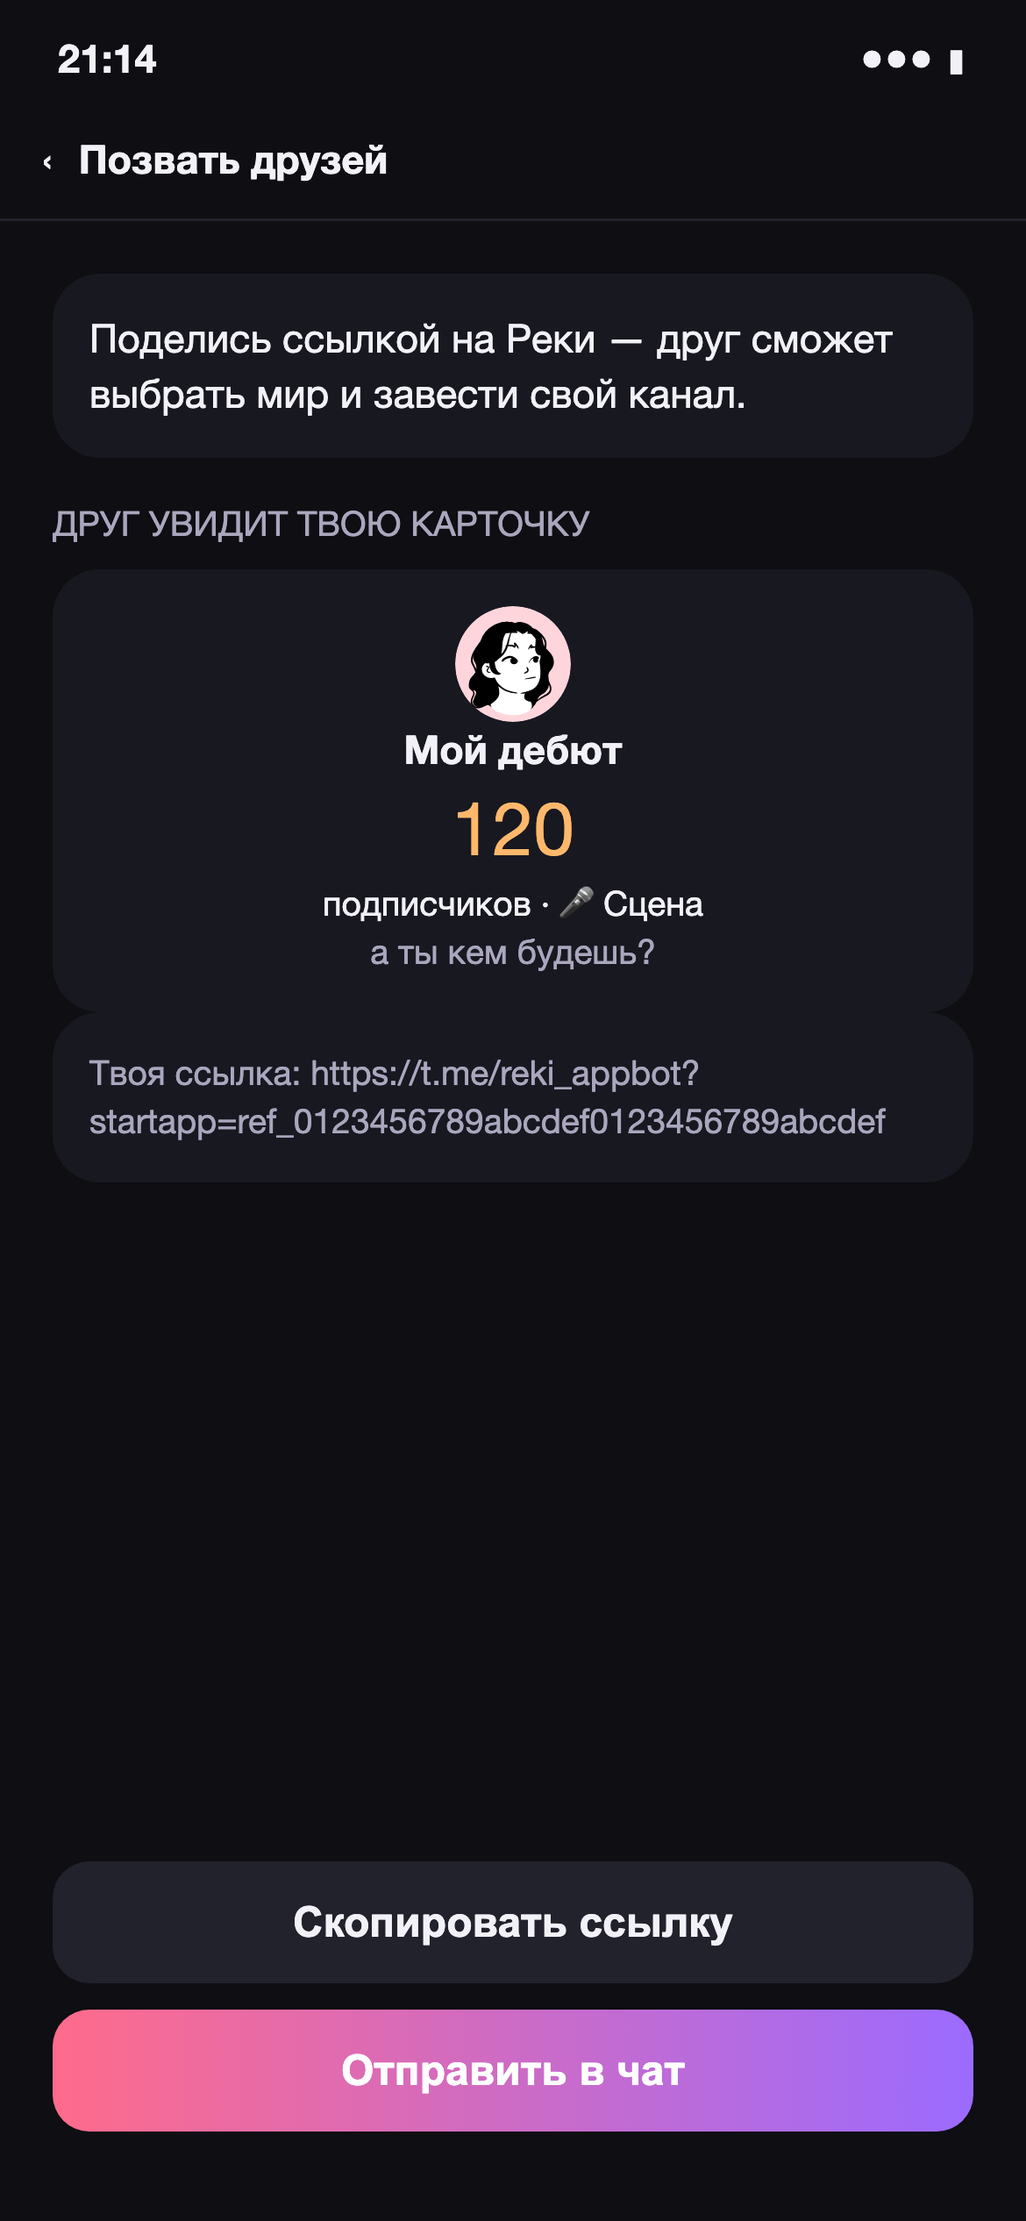
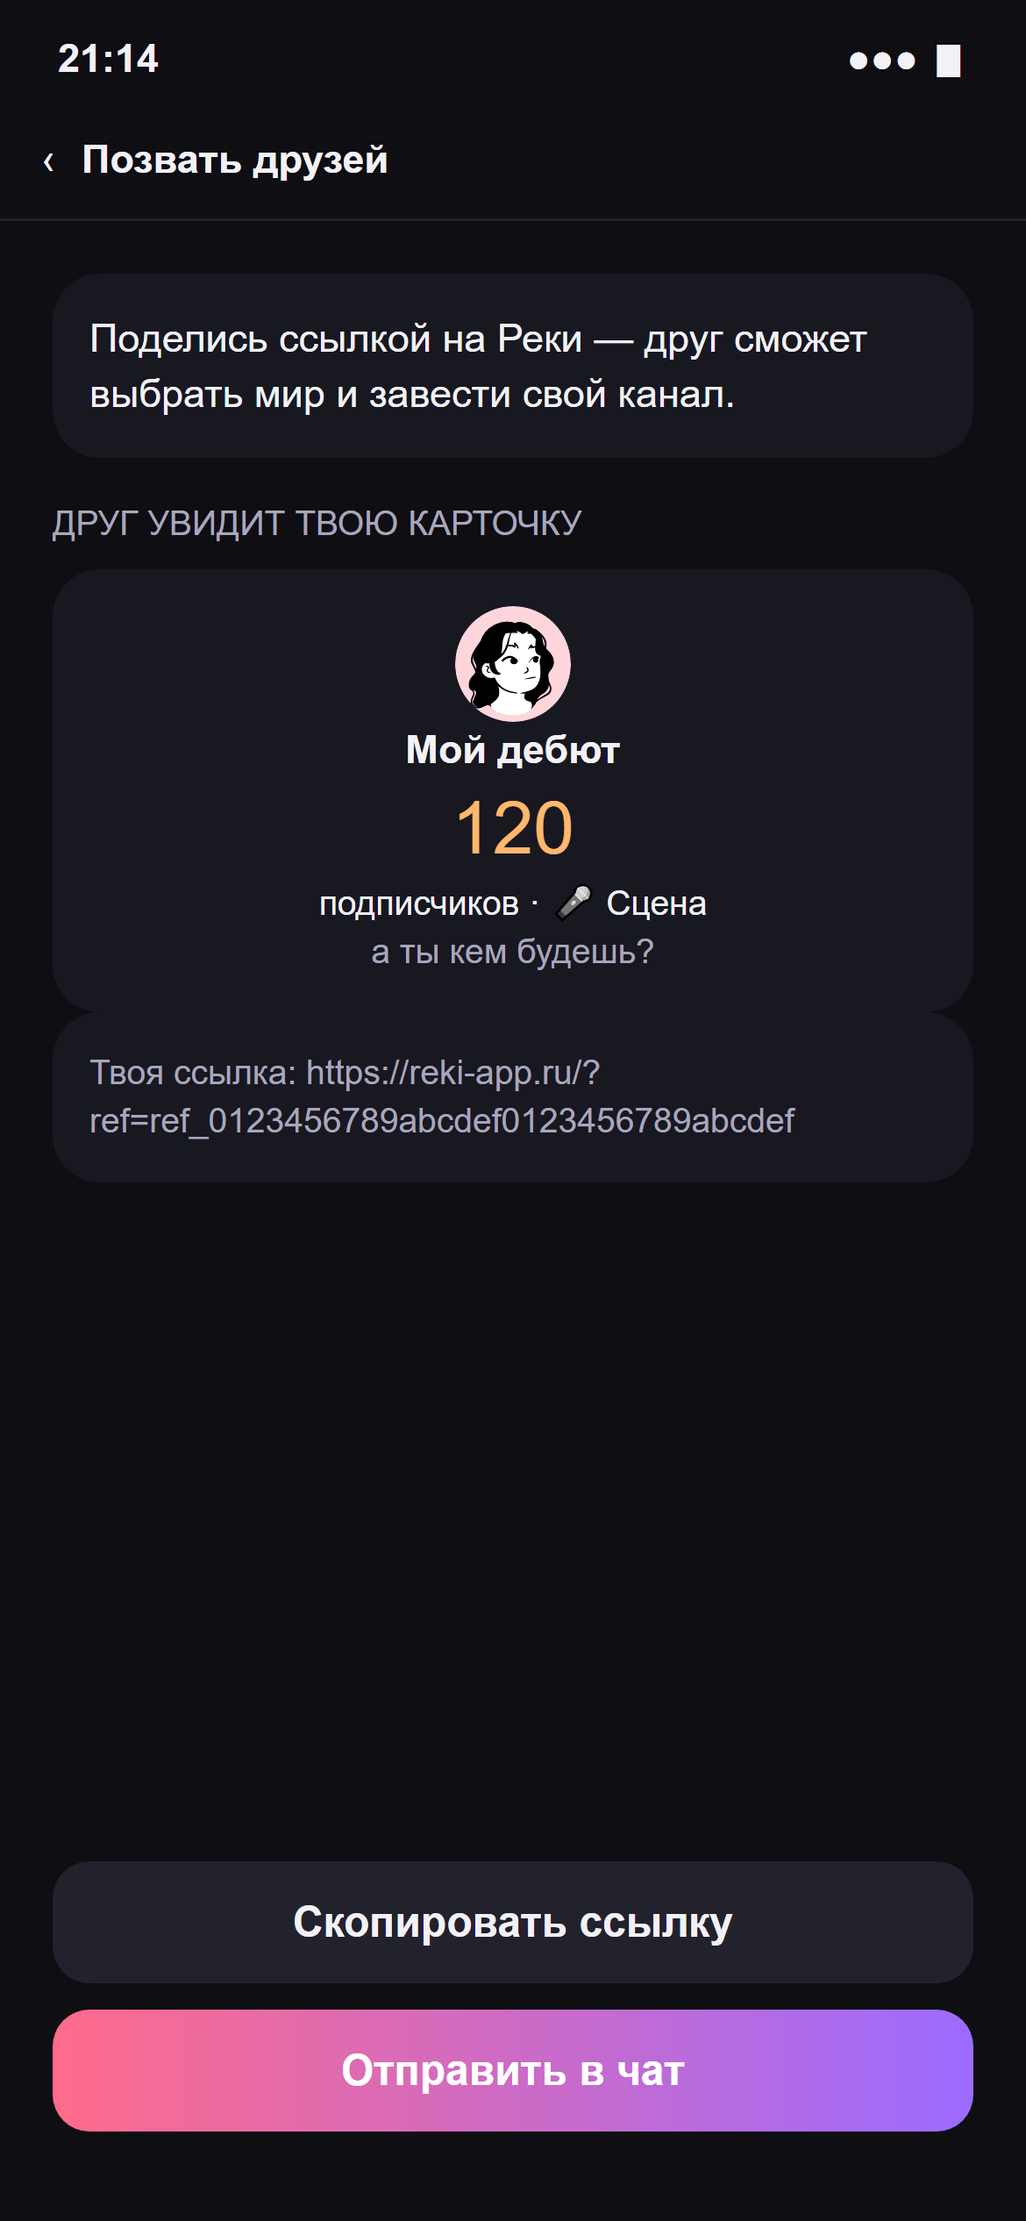
feat(invites): share website referral links across all entry points

diff --git a/frontend/src/app/useReferralLink.ts b/frontend/src/app/useReferralLink.ts
@@ -2,11 +2,10 @@ import { useEffect, useState } from 'react'
 import { api } from '../api/client'
 import { usePlayer } from './store'
 import { cachedApi, saveApiCache } from './useApi'
-import { telegramStartUrl } from './telegramLinks'
 
 export function useReferralLink() {
   const player = usePlayer()
-  const key = `referral:${player.id}`
+  const key = `referral-site:${player.id}`
   const [resolved, setResolved] = useState<{ key: string; link?: string }>(() => ({ key, link: cachedApi<string>(key) }))
   const link = resolved.key === key ? resolved.link : cachedApi<string>(key)
   const [error, setError] = useState(false)
@@ -16,7 +15,11 @@ export function useReferralLink() {
     setError(false)
     setResolved({ key, link: cachedApi<string>(key) })
     api.referral().then(({ code }) => {
-      if (alive) { const url = telegramStartUrl(code); saveApiCache(key, url); setResolved({ key, link: url }) }
+      if (alive) {
+        const url = `https://reki-app.ru/?ref=${encodeURIComponent(code)}`
+        saveApiCache(key, url)
+        setResolved({ key, link: url })
+      }
     }).catch(() => { if (alive) setError(true) })
     return () => { alive = false }
   }, [key, retry])

diff --git a/frontend/src/main.tsx b/frontend/src/main.tsx
@@ -6,6 +6,7 @@ import { ErrorBoundary } from './app/ErrorBoundary'
 import { installAnalytics } from './app/analytics'
 import { installGlobalHandlers } from './app/log'
 import { initTelegram } from './telegram'
+import { rememberReferral } from './app/referral'
 import './theme.css'
 
 const callbackParams = new URLSearchParams(location.hash.slice(1))
@@ -16,7 +17,9 @@ if (yandexCallback) {
   script.onload = () => window.YaSendSuggestToken?.(window.location.origin)
   document.head.append(script)
 } else {
-  if (new URLSearchParams(location.search).has('shot')) document.documentElement.classList.add('shot')
+  const query = new URLSearchParams(location.search)
+  if (query.has('shot')) document.documentElement.classList.add('shot')
+  rememberReferral(query.get('ref'))
   initTelegram()
   installGlobalHandlers()
   installAnalytics()

diff --git a/docs/design/src/build_journey.py b/docs/design/src/build_journey.py
@@ -347,6 +347,7 @@ exec(open(os.path.join(D, 'journey_v37.py'), encoding='utf-8').read())  # #297 p
 exec(open(os.path.join(D, 'journey_v38.py'), encoding='utf-8').read())  # streak history
 exec(open(os.path.join(D, 'journey_v39.py'), encoding='utf-8').read())  # streak progress
 exec(open(os.path.join(D, 'journey_v40.py'), encoding='utf-8').read())  # streak years
+exec(open(os.path.join(D, 'journey_v41.py'), encoding='utf-8').read())  # website referral
 
 CH = os.environ.get('CHROME_BIN') or shutil.which('google-chrome') or shutil.which('chrome')
 if not CH and os.name == 'nt':

diff --git a/docs/design/src/journey_v41.py b/docs/design/src/journey_v41.py
@@ -1,0 +1,1 @@
+S['04-3_invite'] = S['04-3_invite'].replace('https://t.me/reki_appbot?startapp=ref_', 'https://reki-app.ru/?ref=ref_')

diff --git a/frontend/README.md b/frontend/README.md
@@ -35,7 +35,7 @@ npm run dev
 
 Содержимое миров находится в `src/api/worldContent.ts`. IT-персонажи — вымышленные адаптации, тексты оригинальные. Лента получает только сохранённые посты игрока и AI-звёзд текущего мира из GET /posts/feed; без backend она пустая. Лента загружается одним GET /posts/feed; каждый пост открывает тред. Детали содержат authorId: под постом звезды можно начать корневой комментарий автору, под своим — ответить на реплику звезды. Флагов разрешений нет.
 
-Шаг `01-4b_world_setup` предшествует выбору звезды. После POST /onboarding вызывается PATCH /settings. При ошибке настроек повтор не создаёт игрока заново. Для макетов можно использовать `?screen=01-4_channel&world=it`. Кэш экранов сохраняет уже загруженные данные при возврате. Приглашения и шэринг получают персональный код через GET /referral, кэш разделён по PlayerId. Telegram start_param сохраняется в sessionStorage до успешного POST /onboarding (referralCode); при недоступном storage есть fallback в памяти. Первый источник сохраняется, после создания код очищается. Кнопки отправки и копирования заблокированы до загрузки ссылки; при ошибке доступен повтор.
+Шаг `01-4b_world_setup` предшествует выбору звезды. После POST /onboarding вызывается PATCH /settings. При ошибке настроек повтор не создаёт игрока заново. Для макетов можно использовать `?screen=01-4_channel&world=it`. Кэш экранов сохраняет уже загруженные данные при возврате. Приглашения и шэринг получают персональный код через GET /referral и выдают публичную ссылку `https://reki-app.ru/?ref=...` во всех окружениях, кэш разделён по PlayerId. Параметр сайта `ref` и прежний Telegram `start_param` сохраняются в sessionStorage до успешного POST /onboarding (referralCode); при недоступном storage есть fallback в памяти. Первый источник сохраняется, после создания код очищается. Кнопки отправки и копирования заблокированы до загрузки ссылки; при ошибке доступен повтор.
 
 Проверка #92: сборка TypeScript/Vite; браузерный проход Сцены, Академии и IT; сохранение голоса/драмы; повтор settings после ошибки без дублирования onboarding; серверная лента без демо-постов и локальных демо-комментариев; пустая лента без backend; справка навыков; положительный/отрицательный итог и публикация через API. Если числовые причины ответа API не суммируются в итог, карточка показывает их текст без ошибочного разложения прироста.
 

diff --git a/docs/game-flow.md b/docs/game-flow.md
@@ -207,7 +207,7 @@
 
 **Уточнено 27.10.2026 (#188):** открытие ленты порождает самостоятельный пост, публикация и ответ игрока — реакцию на конкретный сохранённый источник. Отложенное задание сохраняет его ID; при недоступном или чужом источнике реакция отменяется без подмены самостоятельным постом. Генератор отдельно получает недавние посты выбранного автора, общую ленту и исходный пост/ветку. Дословный дубль собственной записи (без учёта регистра и пробелов) не публикуется и не перегенерируется. Смысловые повторы этим сравнением не гарантированно исключаются. Вероятность генерации, безопасность и экономика прежние.
 
-Приглашение, отправка в чат и карточка для сторис используют персональный `startapp=ref_<opaque player ID>`. Первый корректный код сохраняется через шаги и перезагрузку онбординга; сервер связывает нового игрока с пригласившим только при создании профиля. Повторный онбординг не меняет источник; свой и неизвестный код игнорируются. Переход по ссылке не начисляет бонус. Эта задача реализует атрибуцию, а награды за первый пост и запуск копии истории остаются отдельными механиками.
+Приглашение, отправка в чат и карточка для сторис используют ссылку на сайт `https://reki-app.ru/?ref=ref_<opaque player ID>`. Решено 23.11.2026: приглашение ведёт на сайт, чтобы друг мог выбрать способ входа; старые Telegram-ссылки остаются совместимыми. Первый корректный код сохраняется через шаги и перезагрузку онбординга; сервер связывает нового игрока с пригласившим только при создании профиля. Повторный онбординг не меняет источник; свой и неизвестный код игнорируются. Переход по ссылке не начисляет бонус. Эта задача реализует атрибуцию, а награды за первый пост и запуск копии истории остаются отдельными механиками.
 
 ## 7. AI: правила видны, действия ограничены
 

diff --git a/docs/backend-spec.md b/docs/backend-spec.md
@@ -133,8 +133,8 @@ Hook и механика отдельной нити удалены. После 
 
 ## 8. Приглашения и антифрод
 
-- Ссылка `t.me/<бот>?startapp=<код игрока>`. «Сыграй мою историю»: `startapp=<код>_s` даёт другу завязку (мир, звёзды, стартовая ситуация), без переписки.
-- Решено 2026-10-06: обычный запуск и все игровые ссылки используют TMA deep link `?startapp[=<payload>]`, чтобы сразу открывать Mini App; ссылки, открывающие только чат бота, не используем.
+- Приглашение использует ссылку на сайт `https://reki-app.ru/?ref=<код игрока>`. Первый корректный код сохраняется до регистрации; старые Telegram-ссылки с `startapp` остаются совместимыми. «Сыграй мою историю»: `startapp=<код>_s` даёт другу завязку (мир, звёзды, стартовая ситуация), без переписки.
+- Решено 2026-11-23: приглашения ведут на сайт, чтобы друг мог выбрать способ входа. Прочие игровые ссылки могут использовать TMA deep link `?startapp[=<payload>]`.
 - Первый успешный пост приглашённого начисляет пригласившему 3 кристалла, три флоп-гарда и три виральные карты, а автору поста — сохранённый в приглашении бонус в кристаллах (для новых приглашений 1). Дневного лимита бонусов нет. Публикация, награда и отметка использованного приглашения сохраняются в одной транзакции; повторная публикация награды не даёт.
 - «Дуэт» на 2-й день, если приглашённый вернулся.
 

diff --git a/docs/screens/README.md b/docs/screens/README.md
@@ -49,7 +49,7 @@
 | [04-1_limit](04-1_limit.png) | «Звёзды отдыхают»: интрига на утро. Бесплатно: ответы на комментарии к своим постам, комментарии друзьям, лента. Звёздам не пишем |
 | [04-2_fake_door](04-2_fake_door.png) | Реки+ тарифом: бесплатно 10 постов vs 349 ₽ (20 постов в день, стиль канала, все миры). Кнопка «Хочу, напишите» меряет интерес и даёт 5 кристаллов; подпись бонуса на PNG устарела. |
 | [04-2b_plus_push](04-2b_plus_push.png) | Бот: «Реки+ открыт» тем, кто нажал «Хочу» |
-| [04-3_invite](04-3_invite.png) | Приглашение друга: первый пост друга приносит пригласившему 3 кристалла, другу — кристаллы из сохранённого приглашения; дневного лимита наград нет. Первый друг открывает создание своего мира. Подпись на PNG о бонусе энергии устарела. |
+| [04-3_invite](04-3_invite.png) | Приглашение друга по ссылке на сайт: первый пост друга приносит пригласившему 3 кристалла, другу — кристаллы из сохранённого приглашения; дневного лимита наград нет. Первый друг открывает создание своего мира. Подпись на PNG о бонусе энергии устарела. |
 | [04-4_friend_joined](04-4_friend_joined.png) | «Катя пришла по твоей карточке»: +5 постов обоим |
 
 ## 5. Возврат и рост
